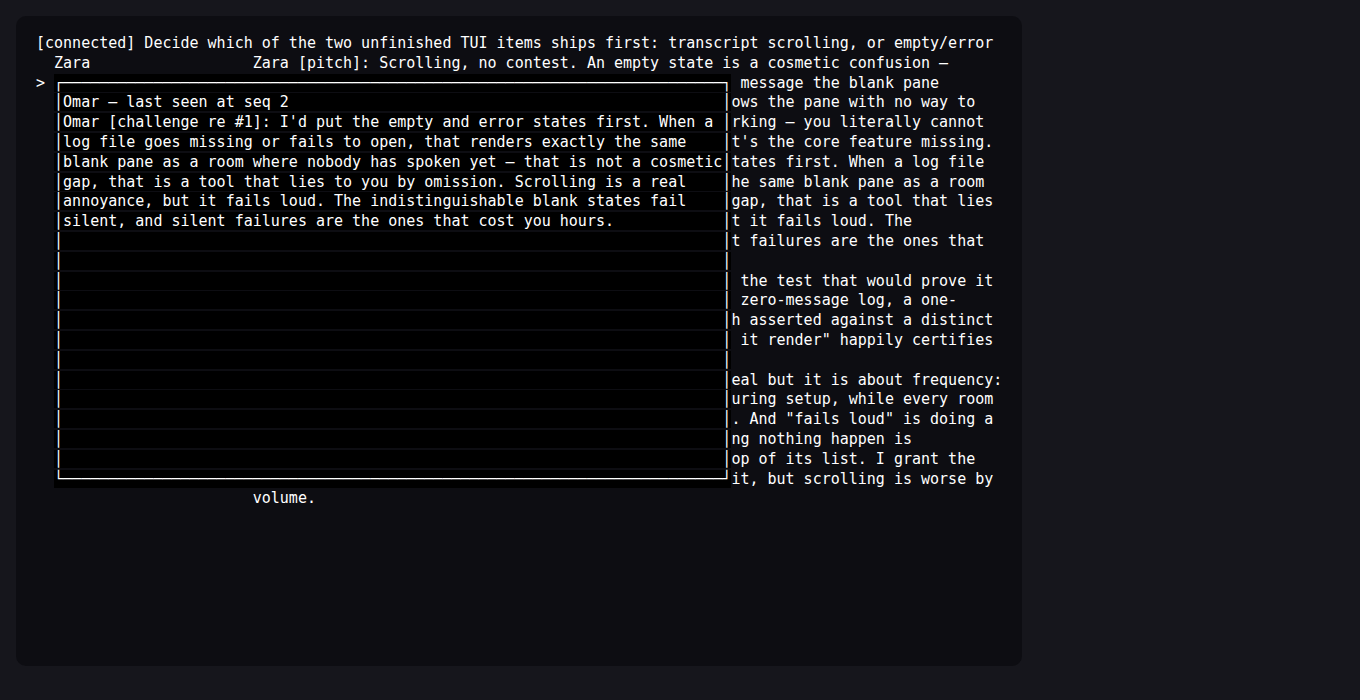
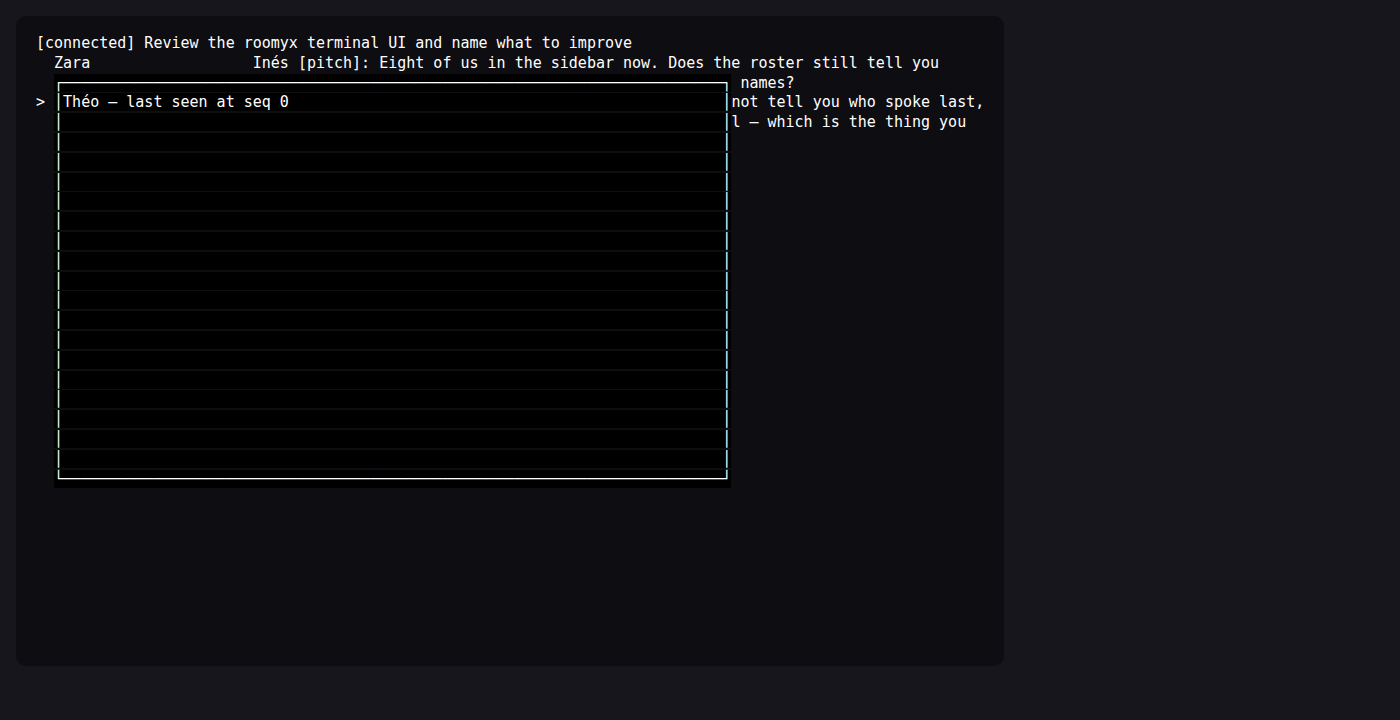
Review the TUI from ten screenshots with four reviewers
Captured ten states of the terminal UI against a real server: empty room, one
message, a room taller than the pane, the same after pressing Up, a 72-column
terminal, an eight-participant roster, the participant modal, the owner-command
prompt, a refused veto, and the server dying under a live client. Then ran a
two-round room over them — design, accessibility, CLI ergonomics, onboarding.
Each reviewer opened all ten images before speaking; points not tied to a named
screenshot were not taken.

The room converged on scrolling first, a footer second in the same change as
the keymap rebind, transcript hierarchy third. Two positions changed under
argument and both are recorded with the reasoning, because the reasoning is
the useful part: Inés withdrew "remove the [connected] chip" and the room
replaced it with something better than either opening position — print a fact
that moves, message count and age of the last message, since a word that always
says the same thing stops being read. Paul withdrew footer-first once Mira
pointed out that a printed keymap becomes a contract people quote back at you.

Ken raised the one point nobody else came near: a status row repainted at a
fixed position, with the cursor parked in another pane, is never spoken to a
screen-reader user, so state changes have to enter the transcript as ordinary
text as well.

The review also turned up the only correctness bug in the set. A word ending
[…]

Changed region(s): [[0.0309, 0.03, 0.7412, 0.72]]

diff --git a/docs/roomyx/tui-review.md b/docs/roomyx/tui-review.md
@@ -1,0 +1,101 @@
+# TUI review — four reviewers against ten screenshots
+
+*2026-09-09. Reviewers: Inés (design/hierarchy), Ken (accessibility/i18n),
+Mira (CLI ergonomics), Paul (onboarding/support). Two rounds. The room's own
+log is `docs/roomyx/screenshots/review-room.jsonl`; every screenshot referenced
+below is in `docs/roomyx/screenshots/`.*
+
+Each reviewer opened all ten images before speaking. Points that could not be
+tied to a named screenshot were not taken.
+
+## The ranked outcome
+
+| | What | Why it is first/second/third |
+| --- | --- | --- |
+| **1** | **Scrolling.** Arrows, PgUp/PgDn, Ctrl-U/D, gg/G scroll the transcript; the roster gets `j`/`k` or Tab-focus. | Three of four ranked it first, and the fourth changed her vote to match. It is what people press before they read anything, and today it is the difference between "the tool works" and history you cannot reach. |
+| **2** | **A permanent footer** — liveness, message count, keys — **in the same change as the rebind.** | Two reviewers arrived at the footer independently. Mira's objection is why it is second and not first: a footer is a keymap's confession, and shipping it alone prints `up/down move the roster` on the screen as documented behaviour someone will later defend. |
+| **3** | **Transcript hierarchy.** Bright name, dim body, blank line between turns, hanging indent on wraps, collapse repeated same-speaker headers. | *"Scrolling without hierarchy is still a grey wall, but hierarchy without scrolling is a wall you can't leave."* — Mira |
+
+## Two things the room agreed on that nobody proposed at the start
+
+**The `[connected]` chip should go, and be replaced by a fact that moves.**
+Inés opened by wanting it removed; Ken and Paul both wanted liveness *louder*.
+The disagreement resolved into something better than either position. A word
+that has always said the same thing stops being read, which is exactly why
+`disconnected.png` fails — it differs from `long.png` by one word, in the same
+ink, at the far left of a line that was already truncating. Print a message
+count and the age of the last message instead. When the number stops moving,
+the silence finally means something.
+
+Inés conceded first, and the reason is worth keeping: *"Removing the chip would
+have left a slot nobody had ever seen occupied, which is worse than a chip that
+at least teaches the location."* Her rule survived in inverted form.
+
+**State changes must also enter the transcript as ordinary text.** Ken's, and
+the only point no one else came near: a status row repainted at a fixed
+position, with the cursor parked in another pane, is never spoken to a
+screen-reader user. It is invisible in the way that matters. A line like
+`— disconnected, retrying, last message 14s ago —` written into the stream
+lands in speech, in scrollback and in a `tee`'d log at once. He also asked for
+a key that re-emits current state on demand, *"because you cannot glance at
+something you cannot see."*
+
+## Verified defect found during the review
+
+**A word that ends exactly at the wrap column loses its last character.**
+
+Reproduced headlessly at 72 columns of terminal with a 24-column roster, so a
+48-column message area:
+
+```
+Théo: Continuing the thread on whether scrollin
+or empty states ship first, with enough text on
+```
+
+The source text reads `whether scrolling or empty`. The `g` is gone — not
+wrapped to the next line, not replaced by an ellipsis, gone. Independently
+observed in a real terminal through tmux at 72 columns, where
+`Continuing the thread on whether` rendered as `Continuing the thread o whether`.
+
+Not fully characterised: at 108 and 120 columns the same message reconstructs
+exactly, so the trigger is the word landing on the boundary rather than the
+width itself. Filed as-is rather than guessed at — the earlier hypothesis that
+the vertical scrollbar was eating a column was measured and is **wrong**: the
+loss happens with three messages and no scrollbar just as it does with sixteen.
+
+This is the only correctness bug in the set. Everything else is layout or
+interaction.
+
+## Below the ranked three
+
+- **Kill the fixed 24-column roster** rather than making it collapsible. Mira
+  moved to this position after Ken's argument: `Théo` fits in 24 columns,
+  `Владислава Мирославовна` does not, and three CJK characters are six cells,
+  not three. Collapsible assumes the column is right and only occasionally in
+  the way. A full-width stream with the roster as an overlay also removes the
+  `tee` problem, because no row would hold two panes.
+- **The modal is the wrong shape.** `modal.png` is a mostly-empty box over
+  eighteen ruled blank rows, covering the roster it was opened from, with no
+  scroll, no next-participant and no hint that Escape exits. What "show me this
+  participant" wants is a filter on the stream — Enter filters in place, Enter
+  again unfilters, composing with scroll and search.
+- **`o` is a stolen key.** `o` means *open* nearly everywhere; `:` is free and
+  already means "I am about to type a command". Also, `prompt.png` shows the
+  mode line replacing the status bar, so the goal disappears at exactly the
+  moment you are typing a command about the goal.
+- **Selection has to mean something visible.** `scrollup.png` differs from
+  `long.png` by a single caret after four keypresses.
+- **Empty states need words, not emptiness.** `empty.png` is a healthy
+  connected room seconds after start; the conclusion a person draws is "it
+  hung", and they are wrong. `modal.png` repeats it: `— last seen at seq 0`
+  over blank rows reads as a broken render rather than "he has not spoken".
+- **Deferred by the reviewer who raised them:** wide characters, RTL, full
+  screen-reader semantics. Ken ranked these below the text-event fix himself.
+
+## What this review does not cover
+
+Colour was reviewed from screenshots rendered by a converter I wrote for this
+purpose. The converter maps the terminal's SGR codes faithfully — and the
+finding that the UI is monochrome is independently checkable in the raw
+captures, which contain only colours 15, 247 and 235 — but hue accuracy in the
+PNGs is mine, not the terminal's.
